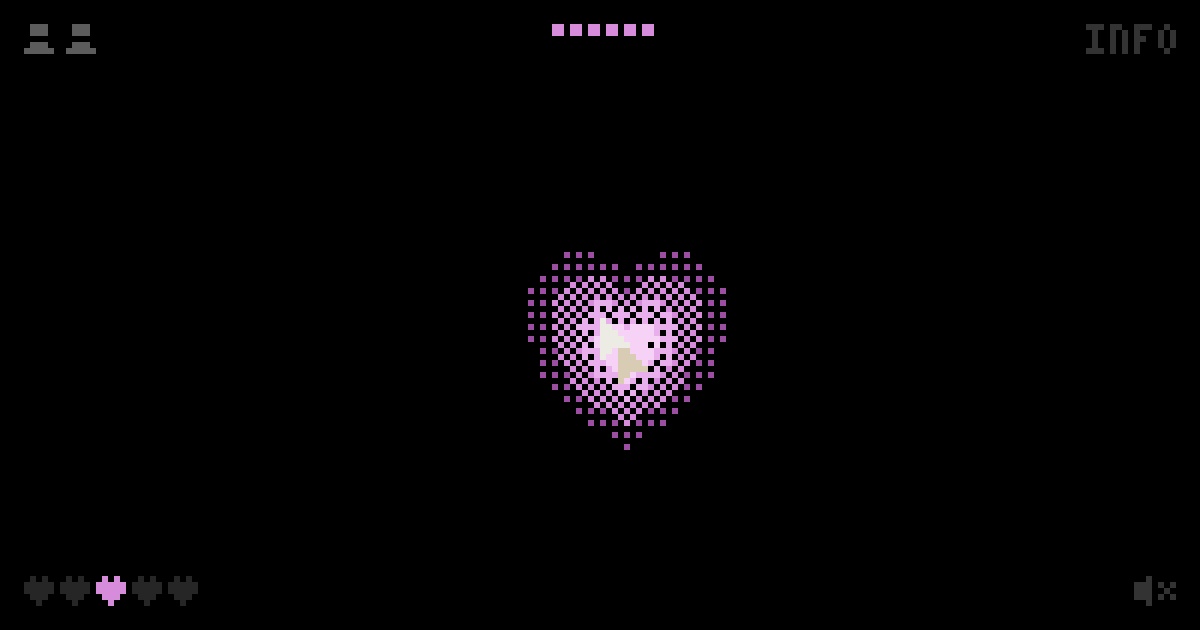
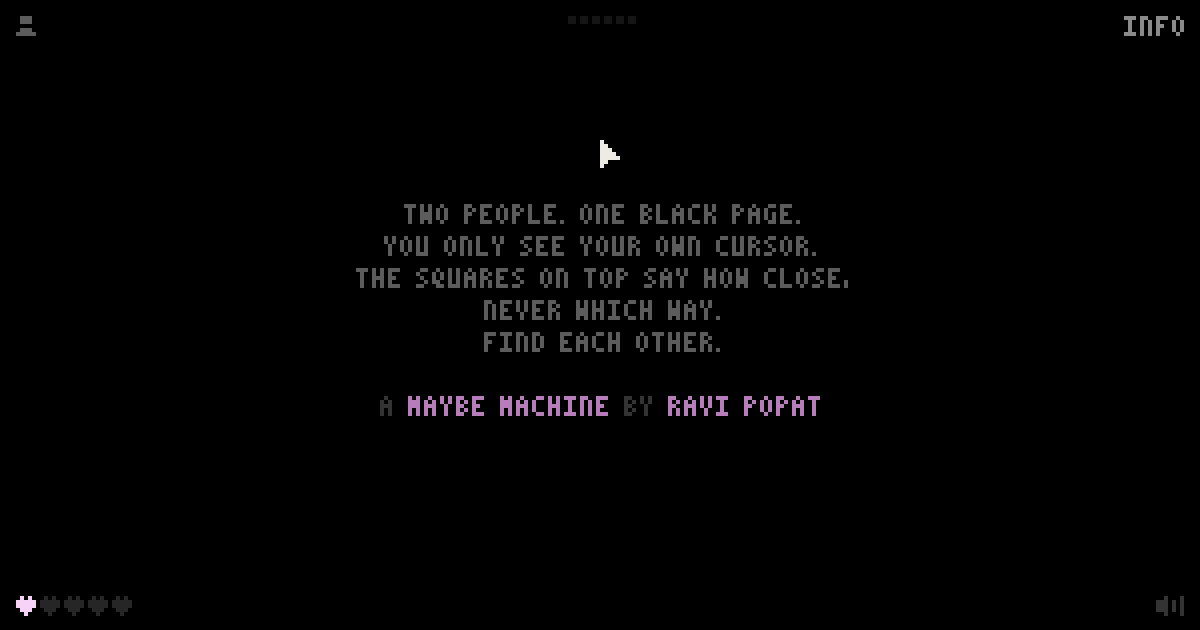
Add files via upload

diff --git a/main.js b/main.js
@@ -16,8 +16,8 @@
   const LEVEL_DEBOUNCE_MS = 110;     // meter must agree for this long to step
   const STRANGER_ROOM_TIMEOUT_MS = 7000;
   const PROPOSAL_MS = 2000;
-  const HALO_MS = 1600;
-  // #poster renders a still frame of two cursors meeting, used for og.png.
+  const HALO_MS = 1400;
+  // #poster renders a still of the info screen, used for og.png.
   const POSTER = location.hash === '#poster';
 
   // Distance thresholds for the 6 meter steps: d > THRESH[k] => level k + 1.
@@ -39,6 +39,7 @@
     icon: '#333',
     iconHi: '#8a8a8a',
     pink: ['#f6d2f7', '#e9afec', '#d68cda', '#bd6cc2', '#9c4fa2'], // light -> deep
+    halo: ['#f6d2f7', '#f0a3b8', '#ec8a5a', '#e0703a'], // pale pink centre -> orange edge
     link: '#b77cba',
     linkHi: '#e9afec',
   };
@@ -703,7 +704,7 @@
     H = canvas.height = Math.max(1, Math.round(window.innerHeight * dpr));
     const sideCss = Math.min(window.innerWidth, window.innerHeight);
     u = Math.max(2, Math.round(Math.max(2, Math.round(sideCss / 240)) * dpr));
-    if (POSTER) u = 6;
+    if (POSTER) u = 4;
     // The world fills the whole screen: x maps to the width, y to the height.
     sw = W;
     sh = H;
@@ -790,31 +791,22 @@
     button(label, snapX(cx - textWidth(label) / 2), y, action, a);
   }
 
-  // Inside the classic heart curve (x^2 + y^2 - 1)^3 - x^2 y^3 <= 0, y up.
-  function inHeart(x, y) {
-    const q = x * x + y * y - 1;
-    return q * q * q - x * x * y * y * y <= 0;
-  }
-
-  // A dithered pixel heart that blooms around the point where the cursors met.
-  function drawHeartHalo(hx, hy, t) {
-    const maxR = 18;
+  // A round dithered pixel halo that blooms around a cursor.
+  function drawHalo(px, py, t) {
+    const maxR = 16;
     const r = maxR * (1 - Math.pow(1 - t, 3));
-    if (r < 2) return;
-    const fade = 1 - t * t;
-    const span = Math.ceil(1.3 * maxR);
+    if (r < 1) return;
+    const fade = 1 - t;
+    const cx = px + 2 * u, cy = py + 3 * u;
     ctx.globalAlpha = 1;
-    for (let j = -span; j <= span; j++) {
-      for (let i = -span; i <= span; i++) {
-        const x = i / r, y = -j / r + 0.15;
-        if (!inHeart(x, y)) continue;
-        // Brighter towards the middle: count how many smaller hearts contain the cell.
-        let depth = 1;
-        for (const k of [0.75, 0.5, 0.3]) if (inHeart(x / k, (y - 0.15) / k + 0.15)) depth++;
-        const inten = (depth / 4) * fade * 1.1;
+    for (let j = -maxR; j <= maxR; j++) {
+      for (let i = -maxR; i <= maxR; i++) {
+        const d = Math.hypot(i, j);
+        if (d > r || d < 2) continue;
+        const inten = (1 - d / r) * fade * 1.15;
         if (inten * 16 <= BAYER[j & 3][i & 3]) continue;
-        ctx.fillStyle = inten > 0.7 ? C.pink[0] : inten > 0.45 ? C.pink[1] : inten > 0.25 ? C.pink[2] : C.pink[4];
-        ctx.fillRect(hx + i * u, hy + j * u, u, u);
+        ctx.fillStyle = C.halo[inten > 0.38 ? 0 : inten > 0.16 ? 1 : inten > 0.07 ? 2 : 3];
+        ctx.fillRect(cx + i * u, cy + j * u, u, u);
       }
     }
   }
@@ -862,7 +854,7 @@
 
     if (playing && found && !reduceMotion.matches) {
       const e = (t - foundAt) / HALO_MS;
-      if (e < 1) drawHeartHalo(snapX((mx + px) / 2 + 2 * u), snapY((my + py) / 2 + 3 * u), e);
+      if (e < 1) { drawHalo(mx, my, e); drawHalo(px, py, e); }
     }
 
     if (playing && (found || dist() < RADII[difficulty])) bitmap(CURSOR, px, py, C.other);
@@ -1041,7 +1033,7 @@
     const dt = Math.min(100, t - last);
     last = t;
     if (POSTER) {
-      render(foundAt + 0.45 * HALO_MS);
+      render(0);
     } else {
       update(t, dt);
       render(t);
@@ -1049,19 +1041,13 @@
     requestAnimationFrame(frame);
   }
 
-  // Two cursors that have just met, the heart mid-bloom, the meter full.
+  // The share image: the info screen, your cursor above the text, meter dark.
   function setupPoster() {
-    state = 'playing';
-    peerPresent = true;
-    peerId = 'poster';
-    me.x = 0.5; me.y = 0.5;
-    other.x = other.tx = 0.5 + (3 * u) / sw;
-    other.y = other.ty = 0.5 + (4 * u) / sh;
-    other.known = true;
-    found = true;
-    foundAt = 0;
-    level = levelAtFound = 6;
-    difficulty = DEFAULT_DIFFICULTY;
+    state = 'left';      // one user icon, empty meter, no centre text
+    infoOpen = true;
+    me.x = 0.5; me.y = 0.22;
+    difficulty = 0;
+    soundOn = true;
   }
 
   resize();
